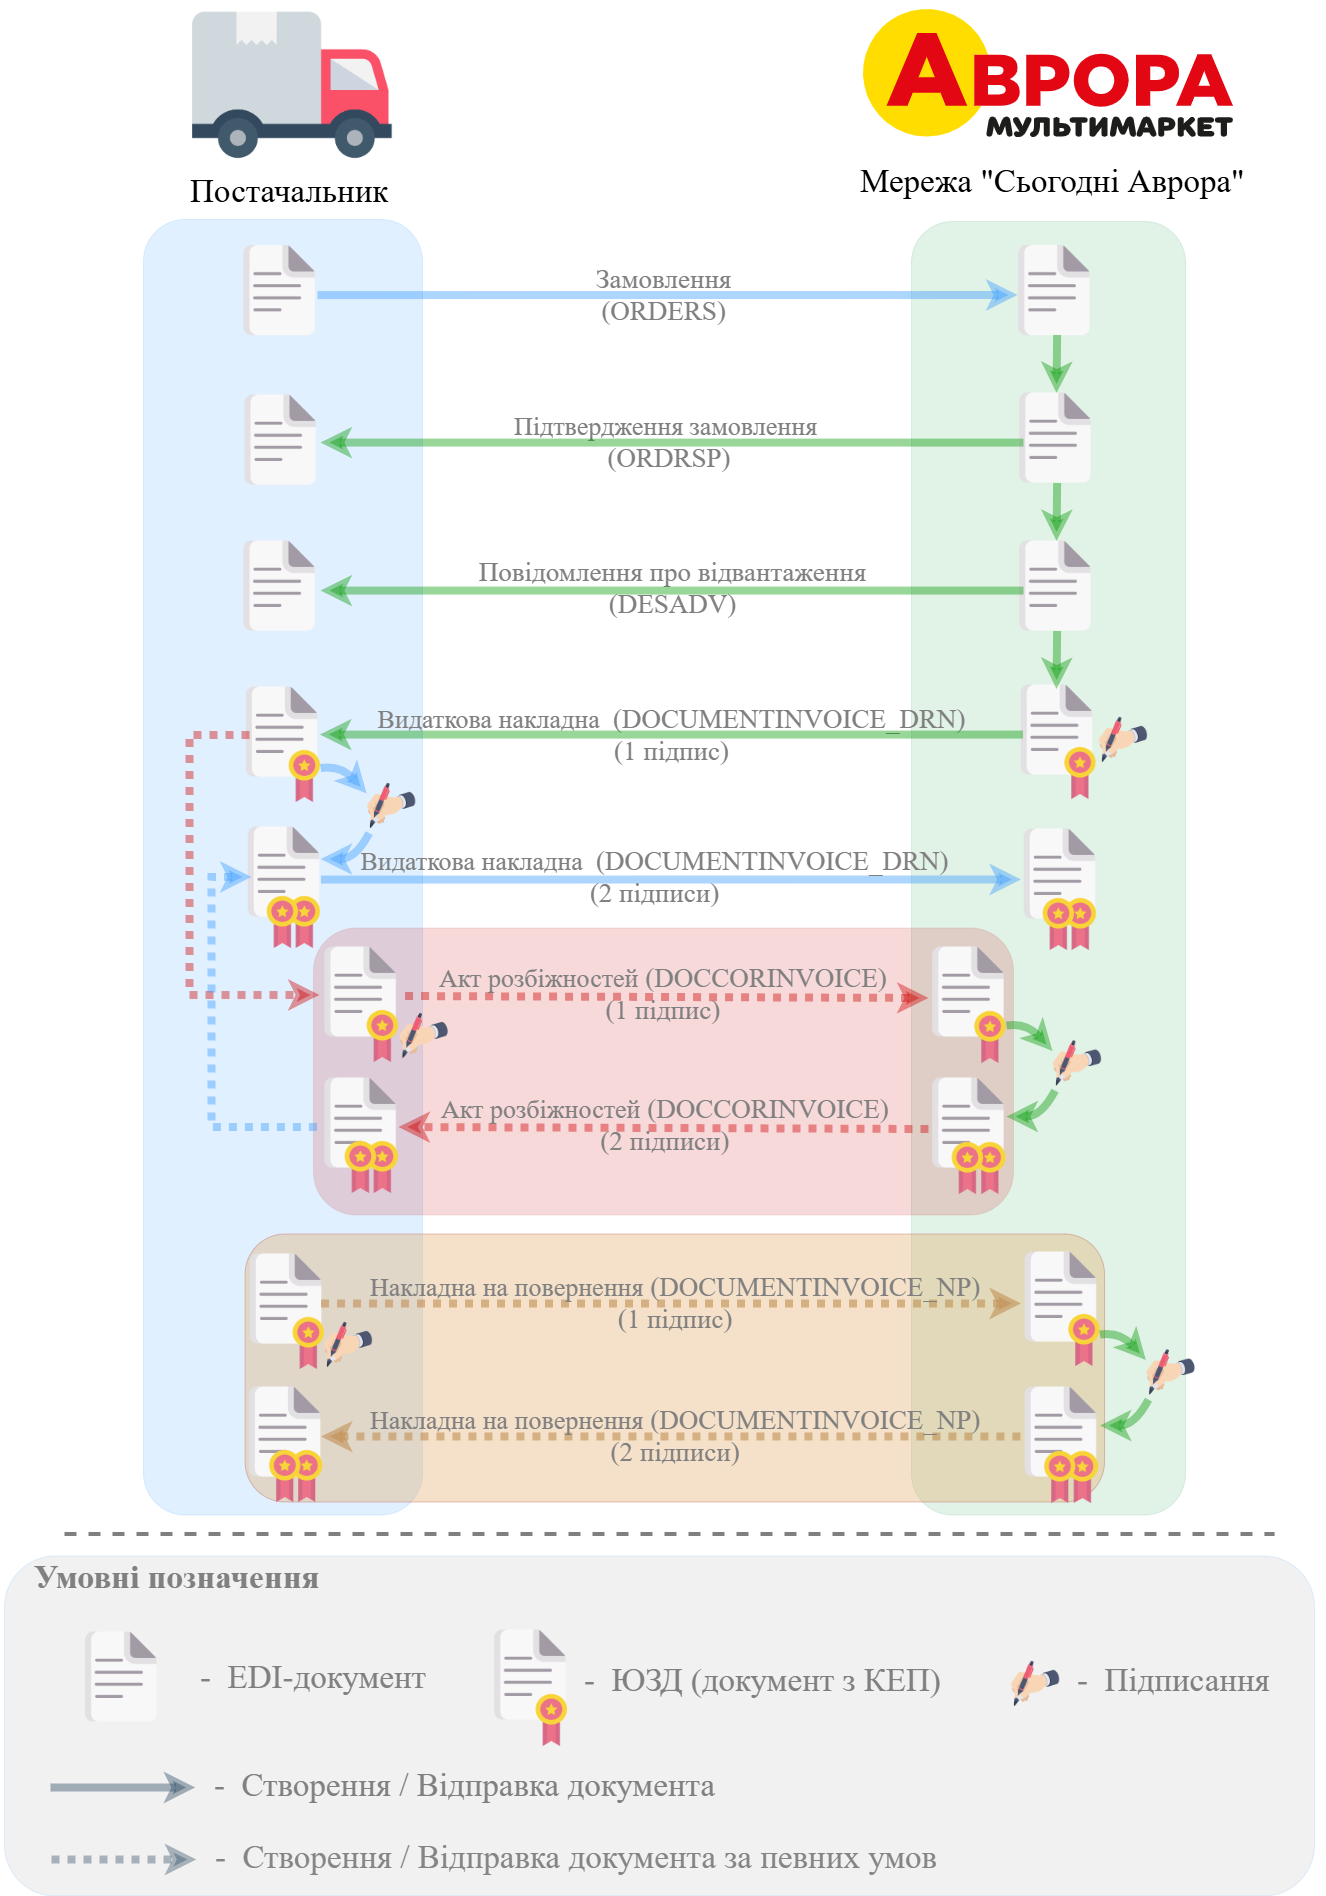
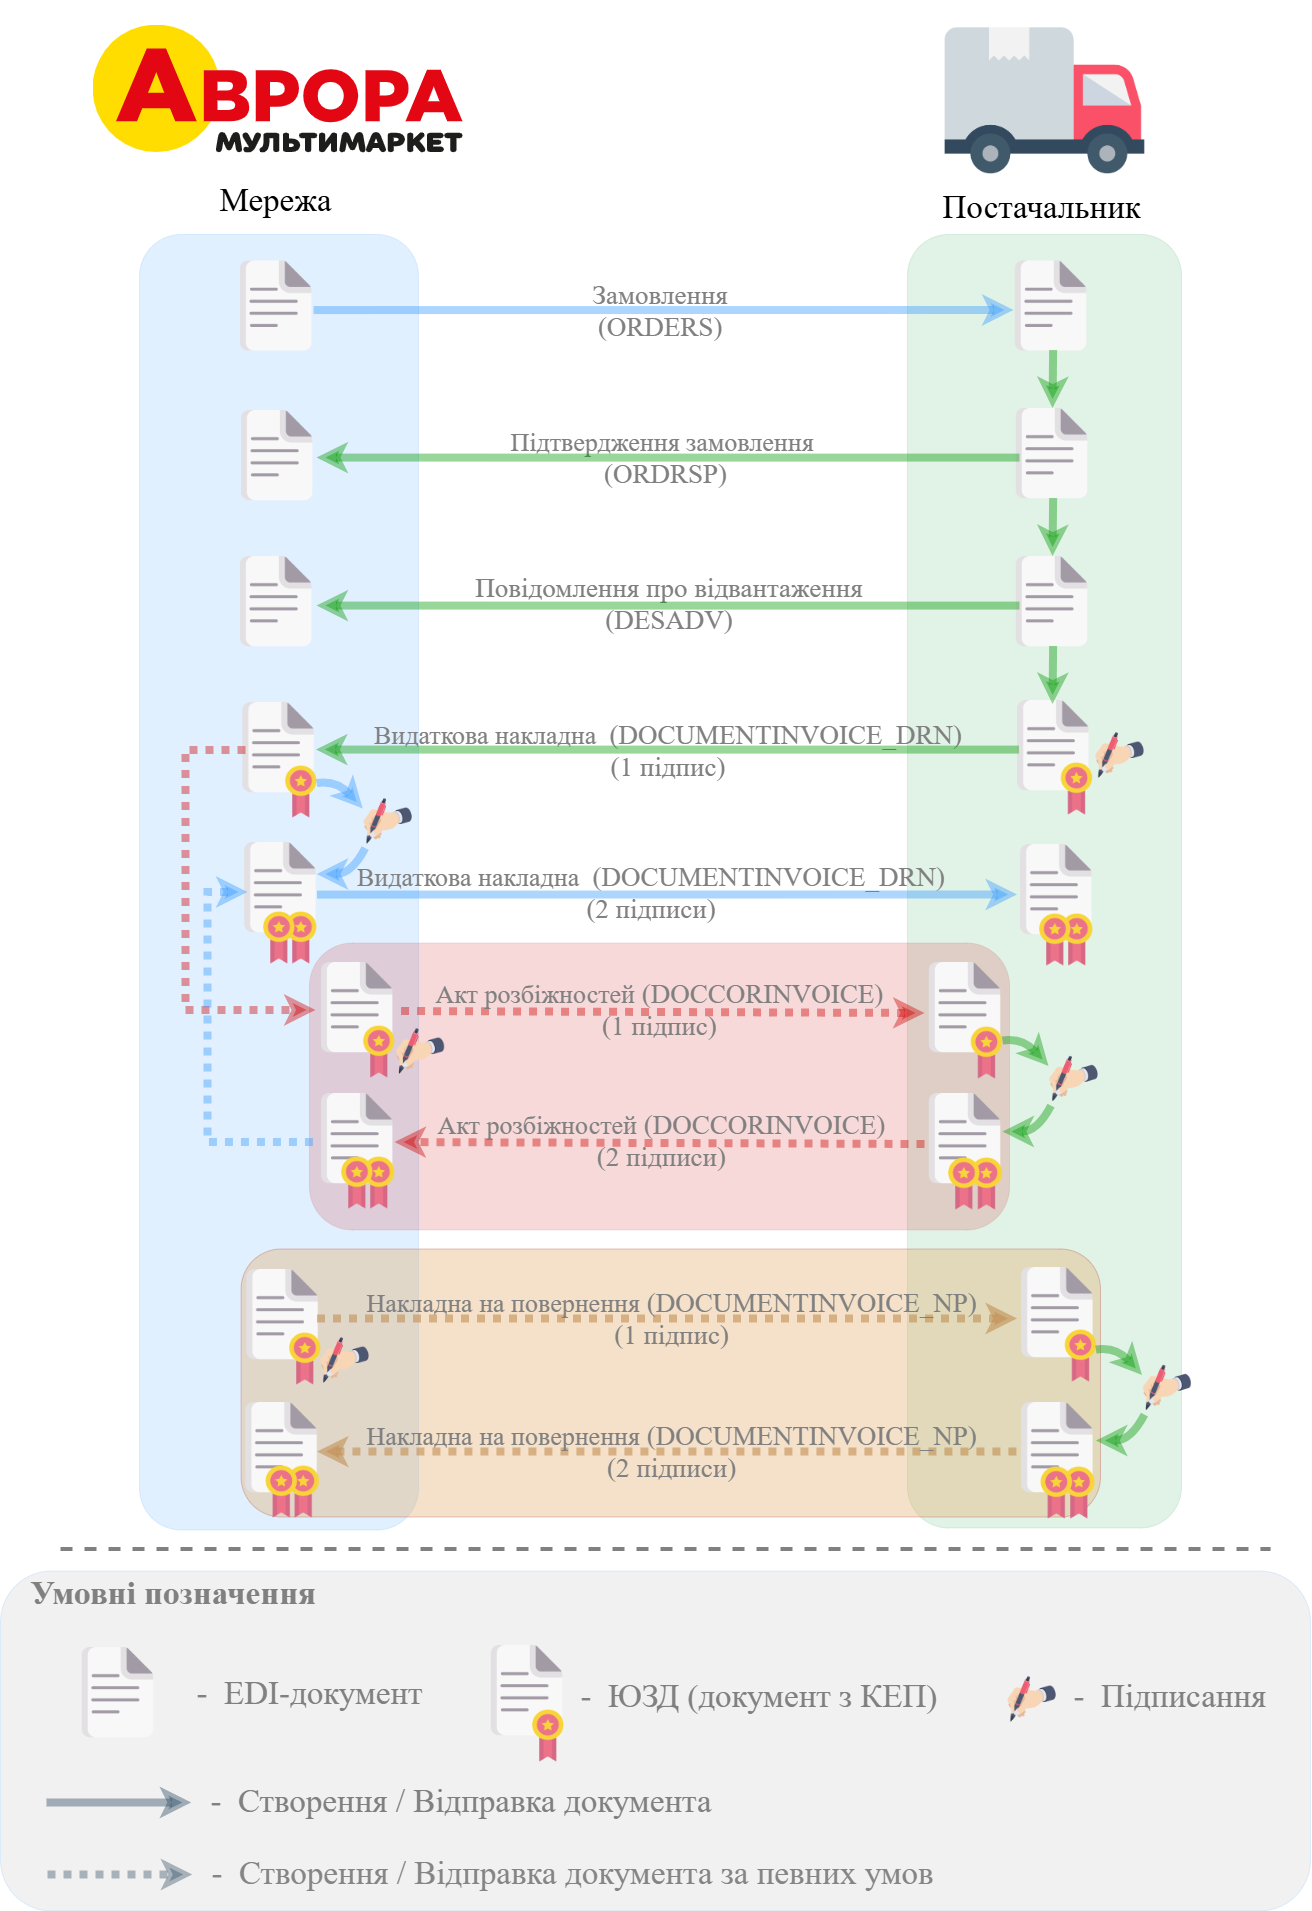
Update Aurora client process pic TECH_DOC-139

diff --git a/docs/ClientProcesses/Avrora/Avrora_Instructions/Avrora_EDI.rst b/docs/ClientProcesses/Avrora/Avrora_Instructions/Avrora_EDI.rst
@@ -24,7 +24,7 @@
 Вступ
 ====================================
 
-Дана інструкція описує порядок документообігу з мережею "Сьогодні Аврора" на платформі EDI Network 2.0. В документообігу приймають участь наступні документи:
+Дана інструкція описує порядок документообігу з мережею "Аврора мультимаркет" на платформі EDI Network 2.0. В документообігу приймають участь наступні документи:
 
 - `Замовлення (ORDER) <https://wiki.edin.ua/uk/latest/EDIN_Specs/XML/ORDER_x.html>`__
 - `Підтвердження замовлення (ORDRSP) <https://wiki.edin.ua/uk/latest/EDIN_Specs/XML/ORDRSP_x.html>`__
